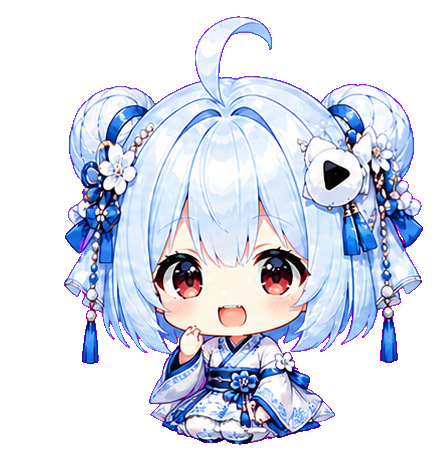
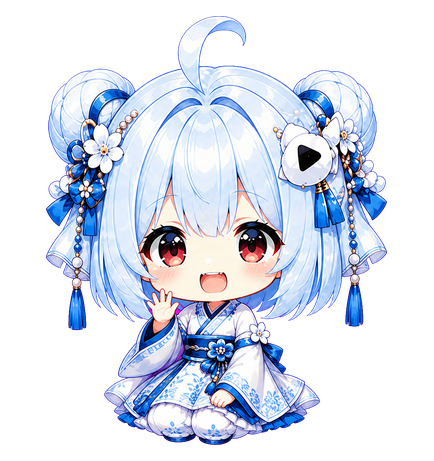
fix: 替换并适配小咪点击表情

diff --git a/src/renderer/src/features/assistant/petAssetFiles.test.ts b/src/renderer/src/features/assistant/petAssetFiles.test.ts
@@ -7,9 +7,15 @@ const BIG_HEAD_ASSET_DIR = resolve(
   __dirname,
   '../../assets/pet/blue-white-maid/character/big-head'
 )
+const CLASSIC_ASSET_DIR = resolve(
+  __dirname,
+  '../../assets/pet/blue-white-maid/character/classic'
+)
+const LEGACY_ASSET_DIR = resolve(__dirname, '../../assets/pet/blue-white-maid/character')
+const pngAlphaCache = new Map<string, ReturnType<typeof decodePngAlpha>>()
 
-function readPngMetadata(filename: string) {
-  const bytes = readFileSync(resolve(BIG_HEAD_ASSET_DIR, filename))
+function readPngMetadata(filename: string, assetDir = BIG_HEAD_ASSET_DIR) {
+  const bytes = readFileSync(resolve(assetDir, filename))
 
   return {
     width: bytes.readUInt32BE(16),
@@ -18,8 +24,7 @@ function readPngMetadata(filename: string) {
   }
 }
 
-function readPngAlpha(filename: string) {
-  const bytes = readFileSync(resolve(BIG_HEAD_ASSET_DIR, filename))
+function decodePngAlpha(bytes: Buffer) {
   const width = bytes.readUInt32BE(16)
   const height = bytes.readUInt32BE(20)
   const colorType = bytes[25]
@@ -80,11 +85,25 @@ function readPngAlpha(filename: string) {
   return { width, height, rows }
 }
 
+function readPngAlpha(filename: string, assetDir = BIG_HEAD_ASSET_DIR) {
+  const path = resolve(assetDir, filename)
+  const cached = pngAlphaCache.get(path)
+
+  if (cached) {
+    return cached
+  }
+
+  const decoded = decodePngAlpha(readFileSync(path))
+  pngAlphaCache.set(path, decoded)
+  return decoded
+}
+
 function countOpaquePixelsInBand(
   filename: string,
-  containsPixel: (x: number, y: number, width: number, height: number) => boolean
+  containsPixel: (x: number, y: number, width: number, height: number) => boolean,
+  assetDir = BIG_HEAD_ASSET_DIR
 ) {
-  const png = readPngAlpha(filename)
+  const png = readPngAlpha(filename, assetDir)
   let count = 0
 
   for (let y = 0; y < png.height; y += 1) {
@@ -98,6 +117,38 @@ function countOpaquePixelsInBand(
   }
 
   return count
+}
+
+function readOpaqueBounds(filename: string, assetDir: string) {
+  const png = readPngAlpha(filename, assetDir)
+  let minX = png.width
+  let minY = png.height
+  let maxX = -1
+  let maxY = -1
+
+  for (let y = 0; y < png.height; y += 1) {
+    const row = png.rows[y]
+
+    for (let x = 0; x < png.width; x += 1) {
+      if (row[x * 4 + 3] > 8) {
+        minX = Math.min(minX, x)
+        minY = Math.min(minY, y)
+        maxX = Math.max(maxX, x)
+        maxY = Math.max(maxY, y)
+      }
+    }
+  }
+
+  expect(maxX).toBeGreaterThanOrEqual(0)
+  expect(maxY).toBeGreaterThanOrEqual(0)
+
+  return {
+    width: maxX - minX + 1,
+    height: maxY - minY + 1,
+    centerX: (minX + maxX) / 2,
+    bottomGap: png.height - 1 - maxY,
+    canvasWidth: png.width
+  }
 }
 
 describe('big-head pet asset files', () => {
@@ -120,4 +171,35 @@ describe('big-head pet asset files', () => {
     expect(countOpaquePixelsInBand('clicked.png', (x) => x < 6)).toBe(0)
     expect(countOpaquePixelsInBand('error.png', (x, _y, width) => x >= width - 30)).toBe(0)
   })
+
+  it(
+    'adapts the new clicked illustration to every pet canvas without shifting its anchor',
+    () => {
+      const variants = [
+        { assetDir: BIG_HEAD_ASSET_DIR, width: 434, height: 461, bottomGap: 16 },
+        { assetDir: CLASSIC_ASSET_DIR, width: 512, height: 512, bottomGap: 23 },
+        { assetDir: LEGACY_ASSET_DIR, width: 512, height: 512, bottomGap: 23 }
+      ]
+
+      for (const variant of variants) {
+        expect(readPngMetadata('clicked.png', variant.assetDir)).toEqual({
+          width: variant.width,
+          height: variant.height,
+          colorType: 6
+        })
+
+        const bounds = readOpaqueBounds('clicked.png', variant.assetDir)
+
+        expect(bounds.width / bounds.height).toBeGreaterThan(0.78)
+        expect(bounds.width / bounds.height).toBeLessThan(0.82)
+        expect(Math.abs(bounds.centerX - (bounds.canvasWidth - 1) / 2)).toBeLessThanOrEqual(2)
+        expect(bounds.bottomGap).toBe(variant.bottomGap)
+      }
+
+      expect(readFileSync(resolve(CLASSIC_ASSET_DIR, 'clicked.png'))).toEqual(
+        readFileSync(resolve(LEGACY_ASSET_DIR, 'clicked.png'))
+      )
+    },
+    10_000
+  )
 })
